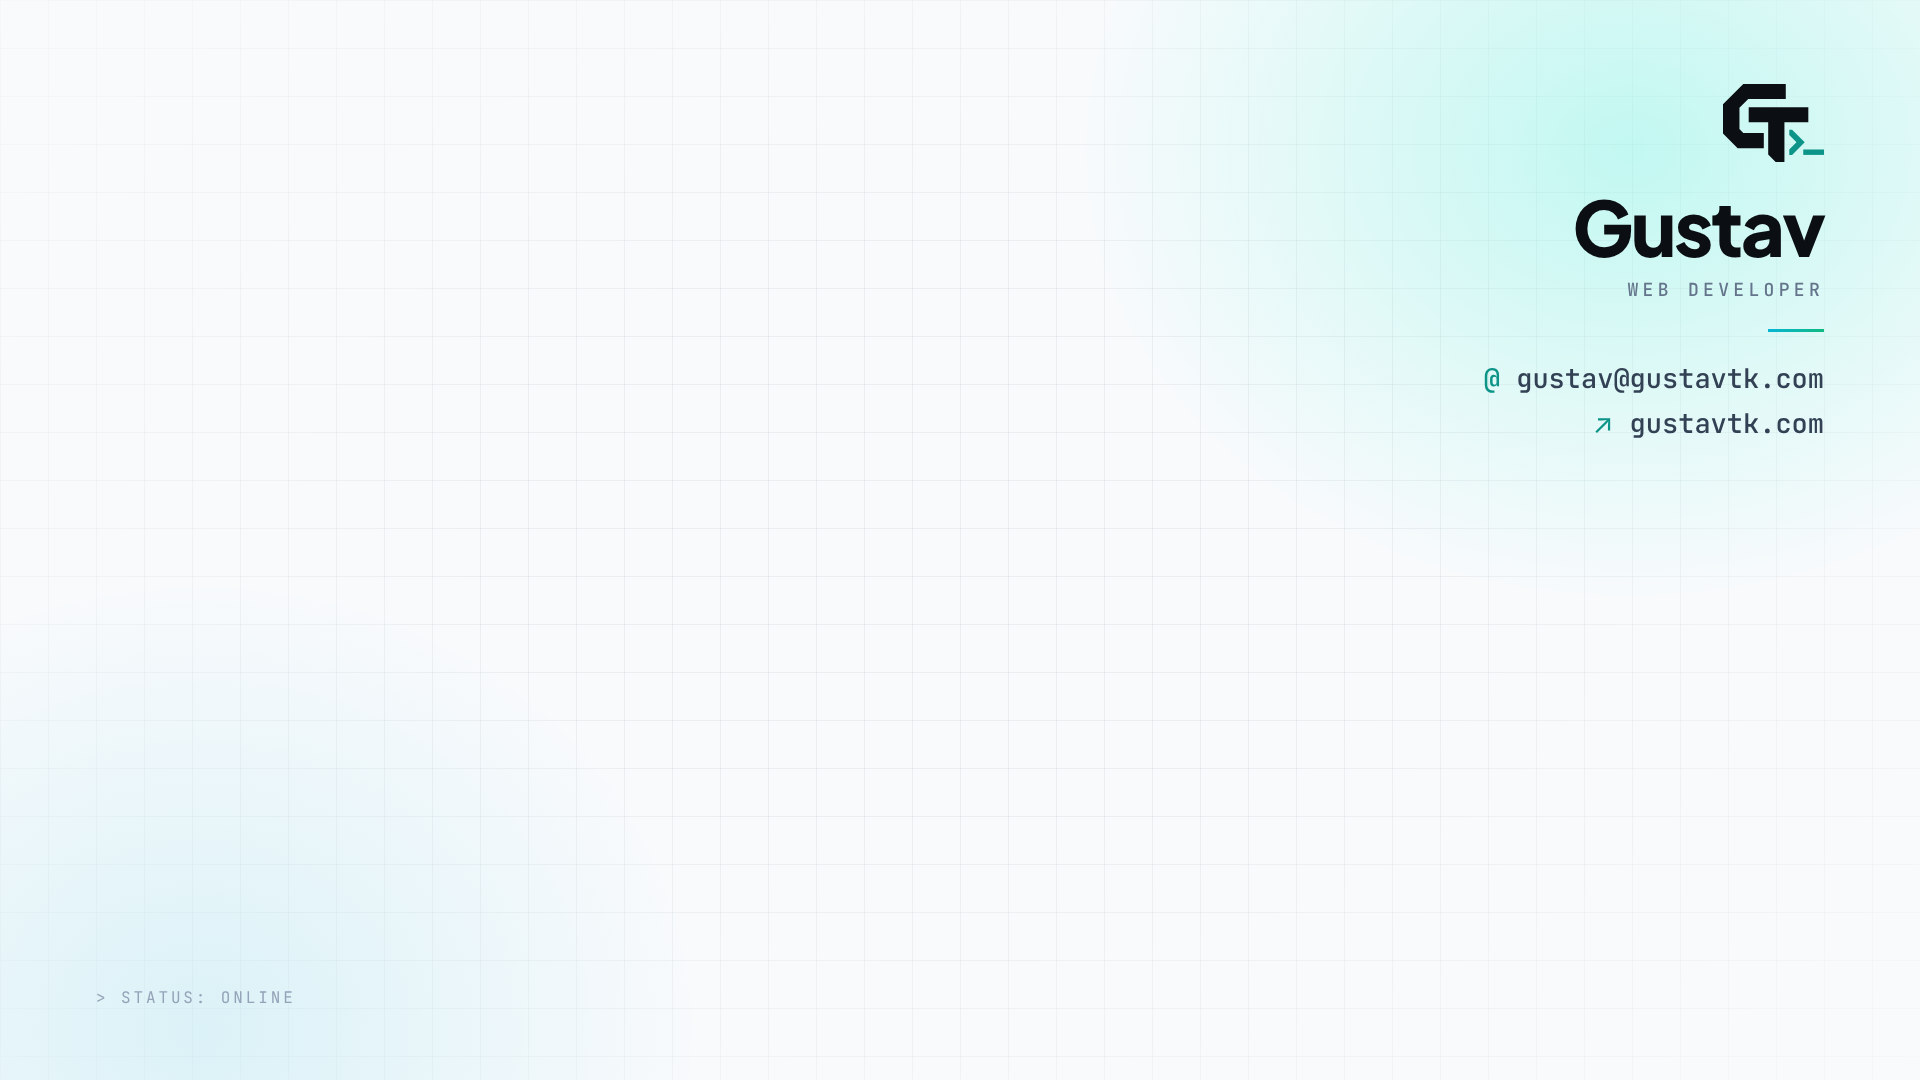
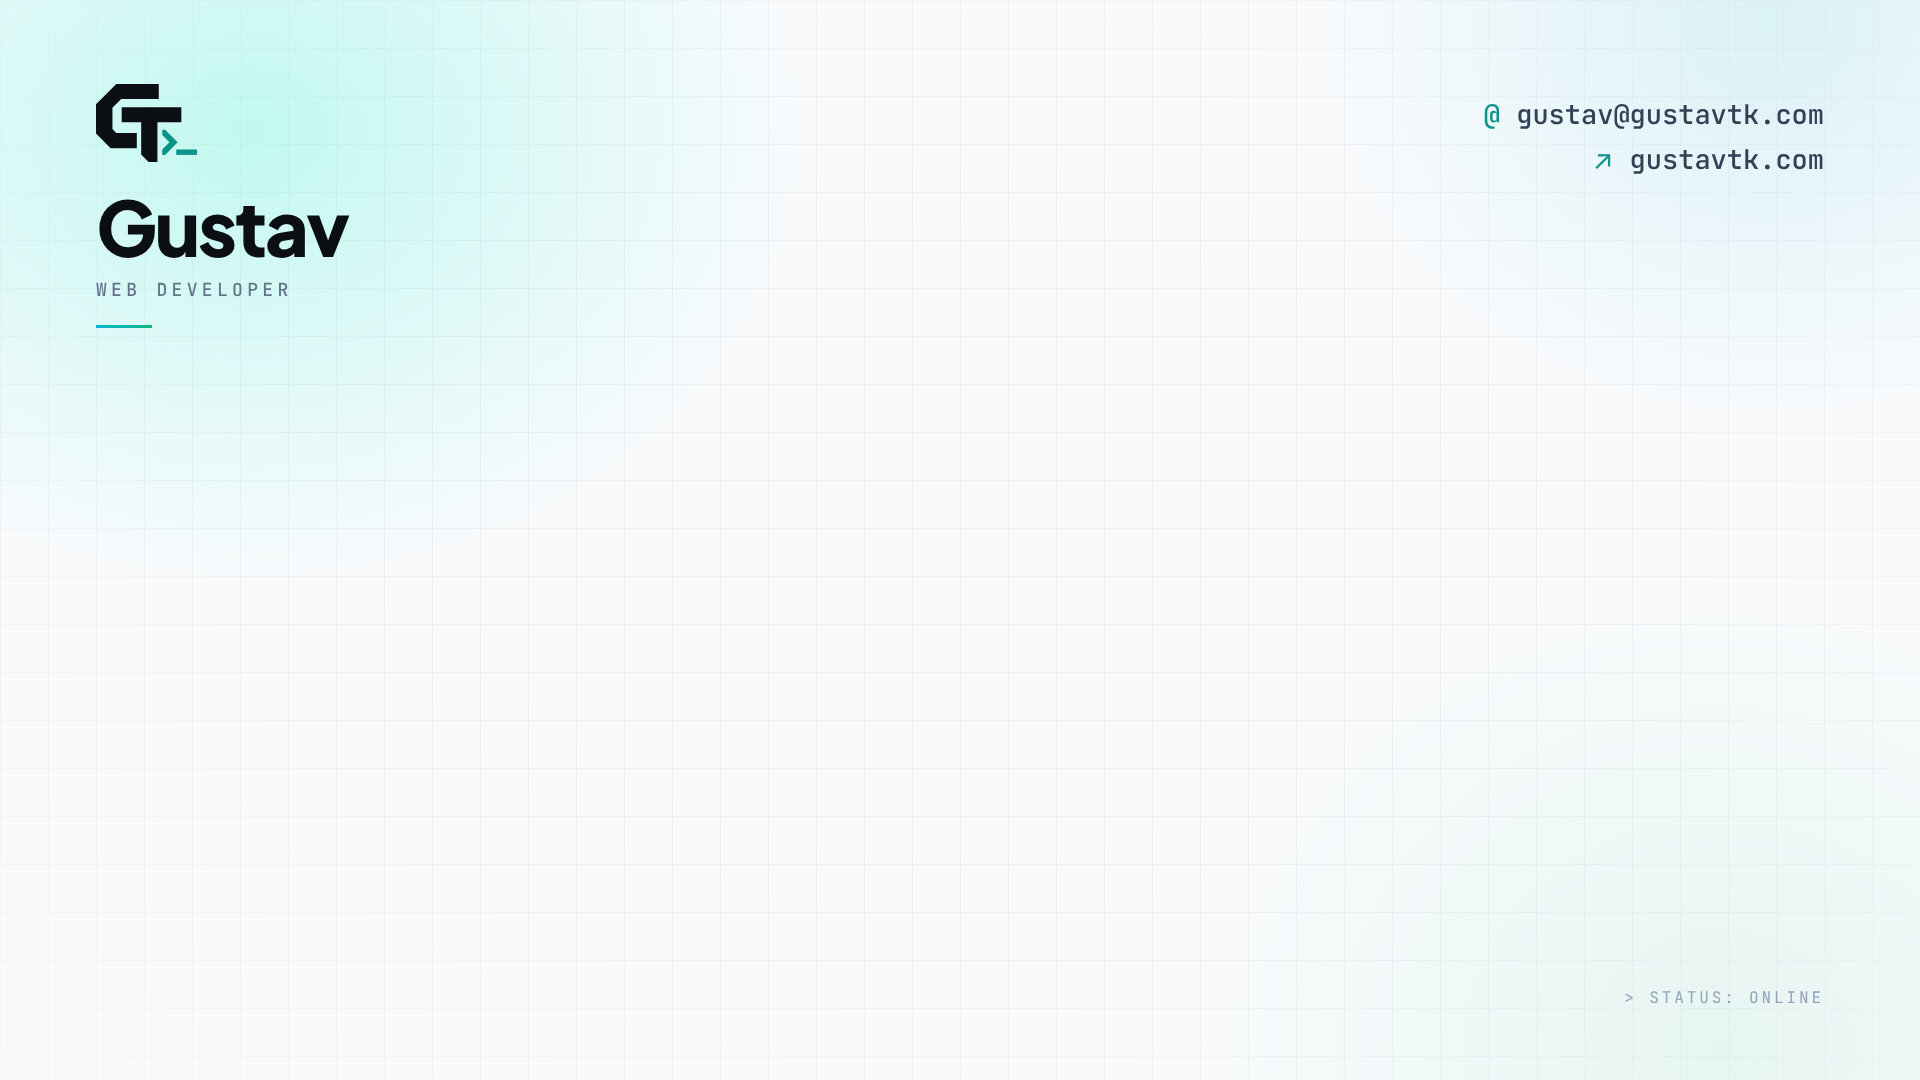
Move brand to top left on Meet backgrounds; add browser, code and glass designs
Keeps grid studio and access pass, drops terminal, monogram and orbit.

Claude-Session: https://claude.ai/code/session_01H2TVSc56KQZrPADdEAeWoT

diff --git a/meet-backgrounds/README.md b/meet-backgrounds/README.md
@@ -3,13 +3,15 @@
 Five 1920×1080 virtual backgrounds in the gustavtk.com brand: the G/T mark with its teal `>_`,
 Plus Jakarta Sans and JetBrains Mono, teal/cyan accents, inverted to light mode.
 
+Logo, name and role sit top left; email and website top right; the middle stays clear for you.
+
 | File | Idea |
 | --- | --- |
-| `01-grid-studio.png` | The site's grid background with a soft teal glow |
-| `02-terminal.png` | Light terminal session: `whoami`, `contact`, `open` |
-| `03-access-pass.png` | The hero's lanyard access pass hanging top right |
-| `04-monogram.png` | The mark drawn as a huge teal outline |
-| `05-orbit.png` | Dashed orbit rings around the details |
+| `01-grid-studio.png` | The site's grid background with soft teal glows |
+| `02-access-pass.png` | The hero's lanyard access pass hanging top left |
+| `03-browser.png` | A light browser window: your brand in the tab, gustavtk.com in the address bar |
+| `04-code.png` | Your contact details as a `contact.ts` snippet in a small editor card |
+| `05-glass.png` | Frosted-glass cards over a soft teal and cyan glow |
 
 **Upload the files in this folder, not `mirrored/`.** Meet mirrors only your own self-view; everyone
 else sees the background exactly as uploaded, so the text reads correctly for them. The copies in
